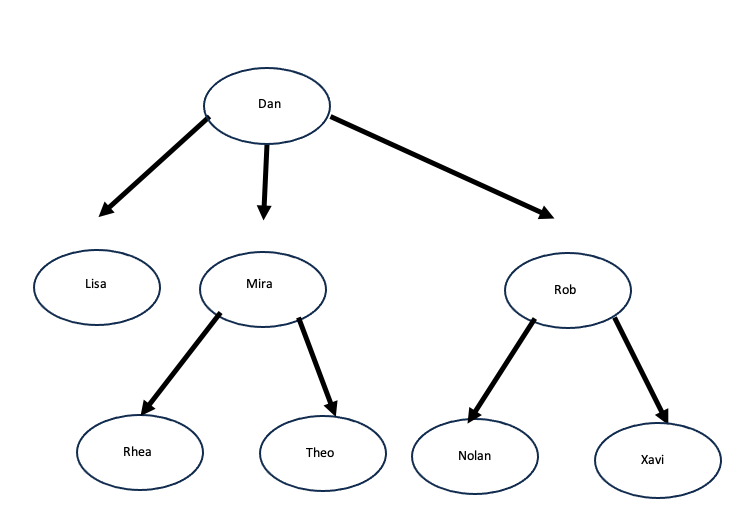
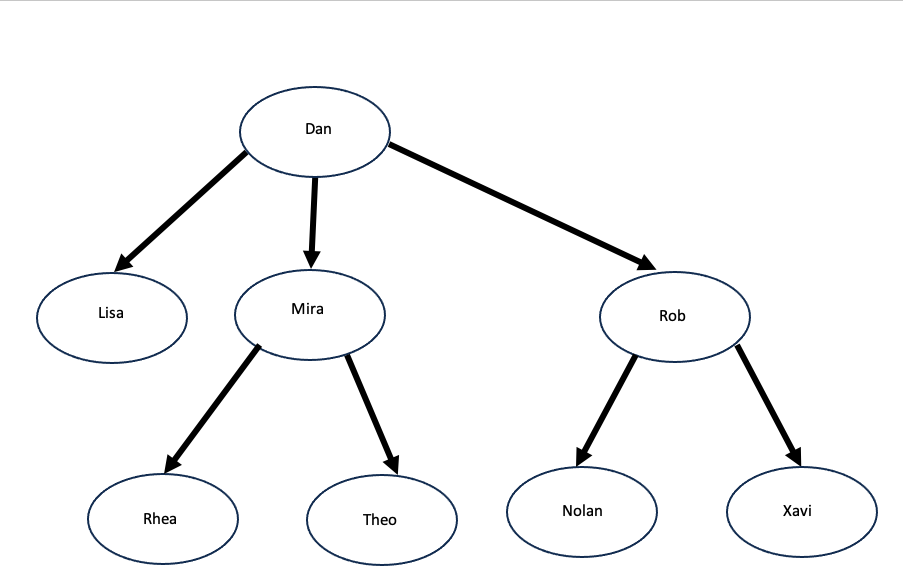
modified image dan_dia8

diff --git a/index1.html b/index1.html
@@ -10,7 +10,7 @@
     <h1 id="heading1">Family Tree</h1>
     <div class="diagram-container">
         <div class="hotspot" id="doverview"></div>
-        <img id="diagram" src="images/dan_dia7.png" alt="Diagram">
+        <img id="diagram" src="images/dan_dia8.png" alt="Diagram">
         
         <div class="hotspot" id="drnode1"></div>
         <div class="hotspot" id="dl1-node1"></div>

diff --git a/css/style.css b/css/style.css
@@ -43,7 +43,7 @@ body {
 }
 
 #drnode1 {
-    top: 110px;
+    top: 100px;
     left: 280px;
     width: 95px;
     height: 95px;
